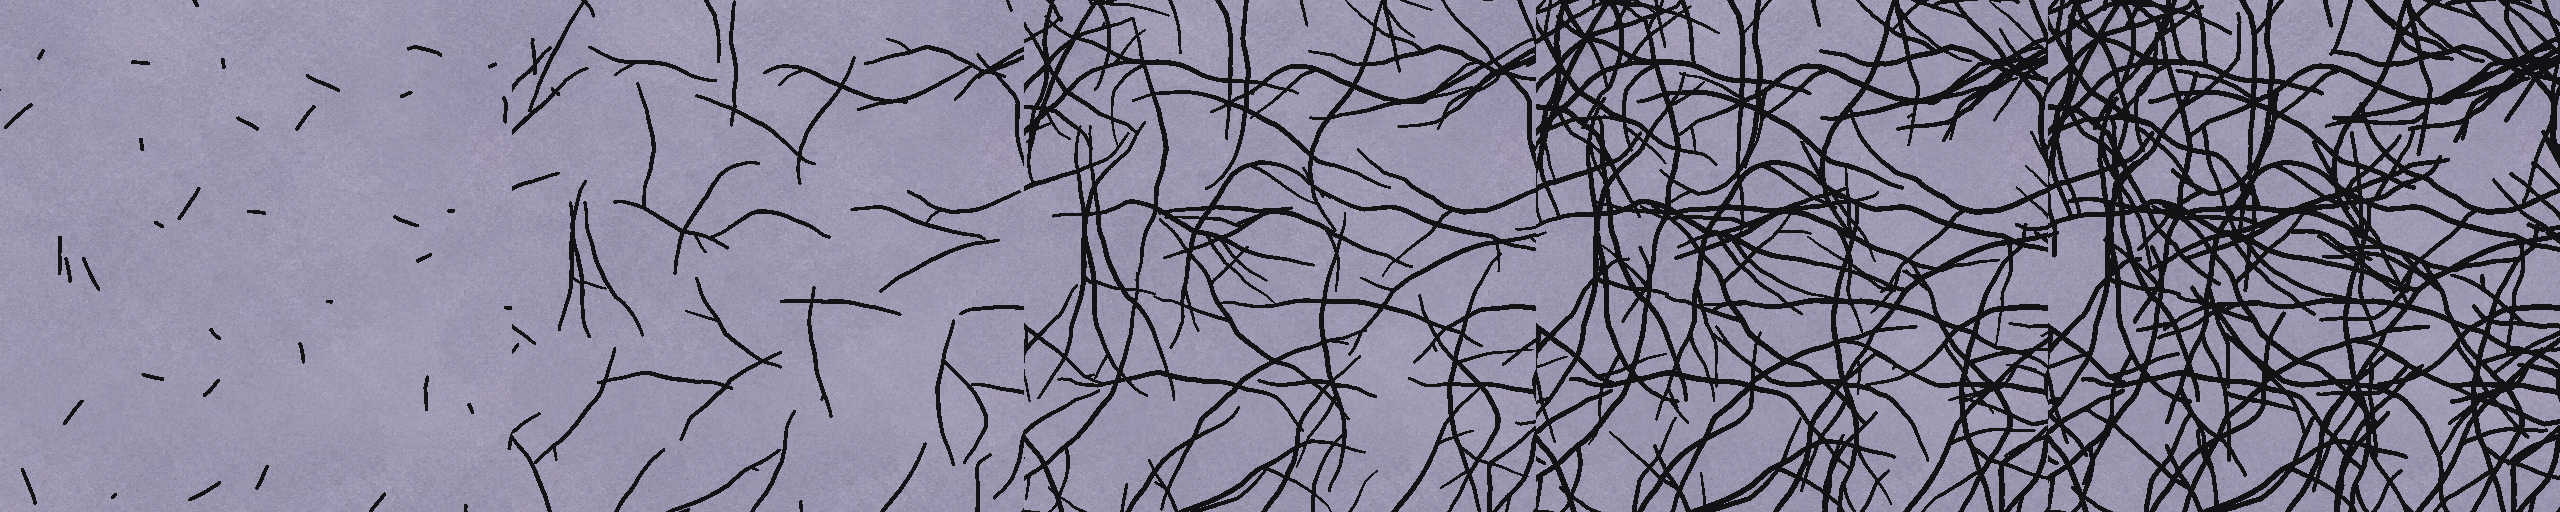
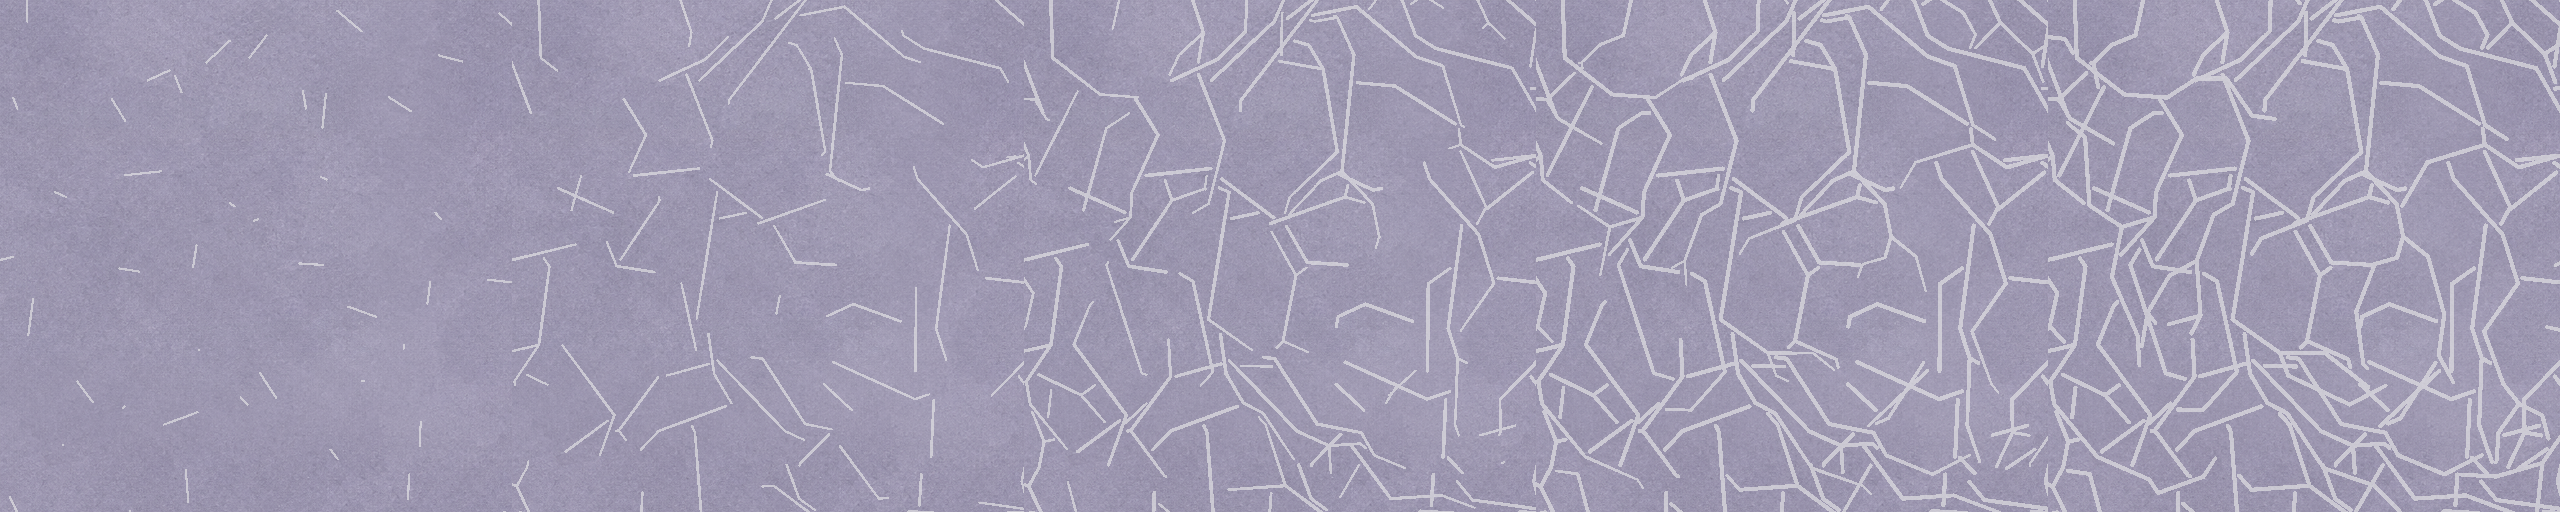
task-230-05-rock-crack-mask: redo as fine straight angular light-damage cracks, pale previews

diff --git a/Tools/art/make_rock_crack_mask.js b/Tools/art/make_rock_crack_mask.js
@@ -7,7 +7,7 @@
 const fs = require('fs');
 const path = require('path');
 const { decodePng, encodePng } = require('./ui_icon_prepare');
-const SEED = 230051, N = 1024, G = 0.0026, MAXD = 0.85;
+const SEED = 230052, N = 1024, G = 0.0026, MAXD = 0.85;
 let st = SEED >>> 0;
 const rnd = () => { st = (st + 0x6D2B79F5) >>> 0; let t = st; t = Math.imul(t ^ (t >>> 15), t | 1); t ^= t + Math.imul(t ^ (t >>> 7), t | 61); return ((t ^ (t >>> 14)) >>> 0) / 4294967296; };
 const rr = (a, b) => a + (b - a) * rnd();
@@ -24,33 +24,39 @@ function stamp(x, y, r, v) {
     if (val > mask[i]) mask[i] = val;
   }
 }
+// Straight segments joined by sharp angular kinks (split stone). A crack stops when it runs into an
+// existing crack (after a short free run), so branches meet and outline irregular plates.
 function grow(x, y, ang, d0, depth, hw) {
-  let s = 0, wander = 0;
-  const maxLen = rr(120, 240) * (depth ? 0.6 : 1);
+  let s = 0;
+  const maxLen = rr(170, 300) * (depth ? 0.7 : 1);
   while (s < maxLen) {
-    const d = d0 + G * s;
-    if (d > MAXD) break;
-    stamp(x, y, hw * (depth ? 0.8 : 1) * (1 - 0.25 * s / maxLen), 1 - d);
-    wander = wander * 0.7 + rr(-0.02, 0.02);
-    if (rnd() < 0.025) ang += rr(-0.4, 0.4); // sharp kinks
-    ang += wander; x += Math.cos(ang); y += Math.sin(ang); s++;
-    if (depth < 2 && s > 14 && rnd() < (depth ? 0.003 : 0.005)) {
-      const side = rnd() < 0.5 ? -1 : 1;
-      grow(x, y, ang + side * rr(0.45, 1.1), d + rr(0.03, 0.12), depth + 1, hw);
+    const segLen = Math.floor(rr(22, 70));
+    const dx = Math.cos(ang), dy = Math.sin(ang);
+    for (let k = 0; k < segLen && s < maxLen; k++, s++) {
+      const d = d0 + G * s;
+      if (d > MAXD) return;
+      if (s > 10 && mask[wrap(Math.round(y + dy * 4)) * N + wrap(Math.round(x + dx * 4))] > 0) return; // joined
+      stamp(x, y, hw, 1 - d);
+      x += dx; y += dy;
     }
+    if (depth < 2 && rnd() < 0.35) { // branch at the kink
+      const side = rnd() < 0.5 ? -1 : 1;
+      grow(x, y, ang + side * rr(0.6, 1.4), d0 + G * s + rr(0.02, 0.1), depth + 1, hw);
+    }
+    ang += (rnd() < 0.5 ? -1 : 1) * rr(0.3, 1.0); // sharp kink
   }
 }
 // early starts: jittered 12 x 12 grid, d0 in [0, 0.05] so even d = 0.05 shows small cracks everywhere
 const roots = [];
-const K = 12, cs = N / K;
+const K = 13, cs = N / K;
 for (let j = 0; j < K; j++) for (let i = 0; i < K; i++)
   roots.push([(i + rnd()) * cs, (j + rnd()) * cs, rr(0, 0.05)]);
 // later starts: 120 more, d0 in [0.05, 0.4]
-for (let k = 0; k < 25; k++) roots.push([rr(0, N), rr(0, N), rr(0.05, 0.4)]);
+for (let k = 0; k < 90; k++) roots.push([rr(0, N), rr(0, N), rr(0.05, 0.4)]);
 for (const [x, y, d0] of roots) {
   // a crack grows both ways from its start point
   const a = rr(0, Math.PI * 2);
-  grow(x, y, a, d0, 0, 2.4); grow(x, y, a + Math.PI, d0, 0, 2.4);
+  grow(x, y, a, d0, 0, 1.6); grow(x, y, a + Math.PI, d0, 0, 1.6);
 }
 const out = path.join(__dirname, '..', '..', 'Art', 'Textures', 'T_RockCrackMask.png');
 const pdir = path.join(__dirname, '..', '..', 'Art', 'Source', 'rock-crack-mask');
@@ -66,8 +72,8 @@ const render = (d, W, H, ox, oy) => {
   for (let y = 0; y < H; y++) for (let x = 0; x < W; x++) {
     const sx = (x + ox) % N, sy = (y + oy) % N, m = mask[sy * N + sx], o = (y * W + x) * 4;
     const ti = ((sy % top.height) * top.width + (sx % top.width)) * tch;
-    const k = m > 1 - d ? 0.12 : 1;
-    for (let c = 0; c < 3; c++) b[o + c] = Math.round(top.data[ti + c] * k);
+    const k = m > 1 - d ? 0.6 : 0; // pale crack over the top
+    for (let c = 0; c < 3; c++) b[o + c] = Math.round(top.data[ti + c] * (1 - k) + 235 * k);
     b[o + 3] = 255;
   }
   return b;
